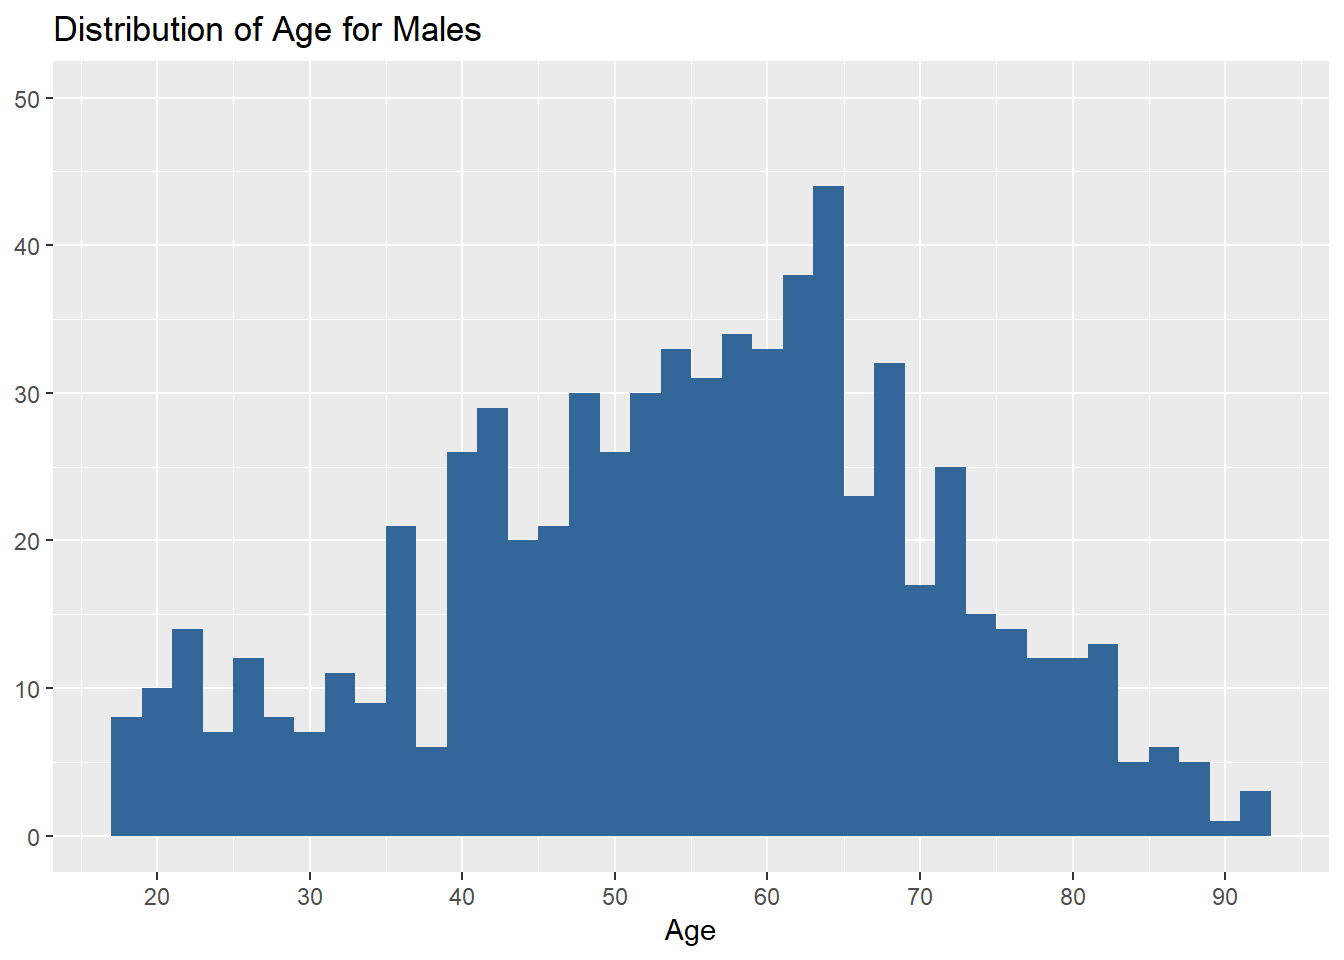
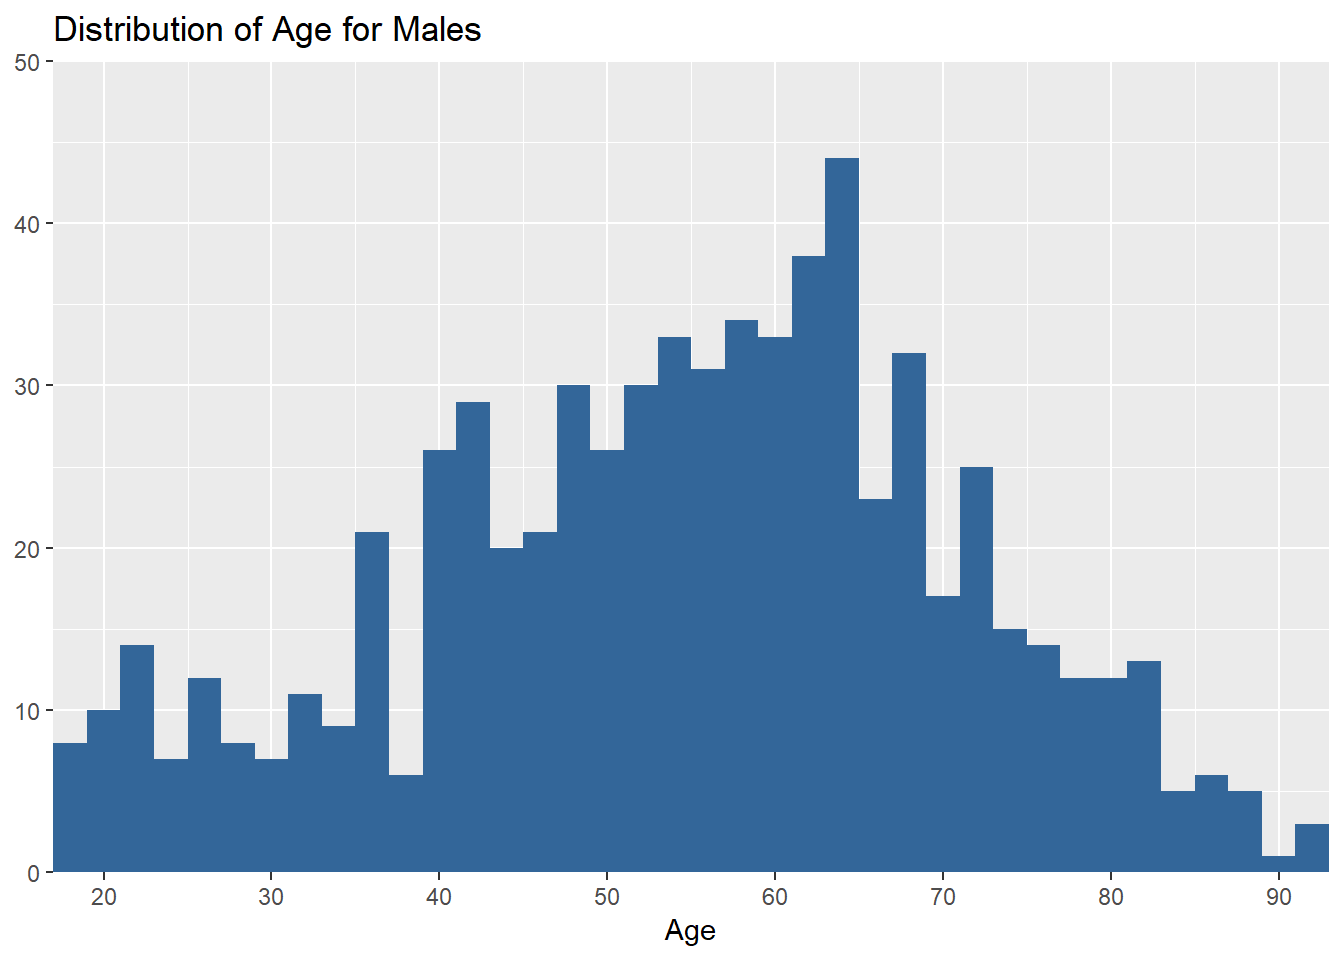
update plot_frq(1)

diff --git a/content/docs/SOC830_lab_05.html b/content/docs/SOC830_lab_05.html
@@ -202,7 +202,7 @@ Let’s caculate the mode of <em>sex</em>, <em>martial</em>, <em>richcol</em>, <
 ##                     richcol
 ## ----------------- ---------
 ##              Mean      3.22
-##          Std.Dev.      1.22
+##           Std.Dev      1.22
 ##               Min      1.00
 ##                Q1      2.00
 ##            Median      4.00
@@ -215,7 +215,7 @@ Let’s caculate the mode of <em>sex</em>, <em>martial</em>, <em>richcol</em>, <
 ##       SE.Skewness      0.06
 ##          Kurtosis     -1.09
 ##           N.Valid   1492.00
-##           % Valid     97.84</code></pre>
+##         Pct.Valid     97.84</code></pre>
 <p>Please note that incase of ordinal variables, you need to be careful in interpreting the results. For instance, the median value of <em>richcol</em> is 4, which means the median response is “Disagree”.</p>
 <p>The following code will show descriptive statistics of <em>age</em>(continuous variable):</p>
 <pre class="r"><code>descr(aus2009$age)</code></pre>
@@ -226,7 +226,7 @@ Let’s caculate the mode of <em>sex</em>, <em>martial</em>, <em>richcol</em>, <
 ##                         age
 ## ----------------- ---------
 ##              Mean     52.53
-##          Std.Dev.     16.78
+##           Std.Dev     16.78
 ##               Min     17.00
 ##                Q1     41.00
 ##            Median     54.00
@@ -239,37 +239,37 @@ Let’s caculate the mode of <em>sex</em>, <em>martial</em>, <em>richcol</em>, <
 ##       SE.Skewness      0.06
 ##          Kurtosis     -0.68
 ##           N.Valid   1484.00
-##           % Valid     97.31</code></pre>
+##         Pct.Valid     97.31</code></pre>
 </div>
 <div id="how-to-visualise-the-distribution" class="section level1">
 <h1>How to visualise the distribution</h1>
 <p>There are many packages to visualise your data in R. In our course I will use <em>sjPlot</em> package because it supports the labels assigned by <em>sjlabelled</em> package and is easy to use. If you want to learn more advanced graphics of R, I recommend using <em>ggplot2</em> package. One good reliable online resource can be found <a href="http://www.sthda.com/english/wiki/be-awesome-in-ggplot2-a-practical-guide-to-be-highly-effective-r-software-and-data-visualization">here</a>.</p>
 <div id="how-to-make-bar-graphs" class="section level2">
 <h2>How to make bar graphs</h2>
-<p>Bar graphs provide appropriate ways to present nominal or ordinal variables graphically. ‘<code>sjp.frq(data name$variable name, type = &quot;bar&quot;)</code>’ makes a bar graph of the specified variable. For example, the following code will make a bar graph of <em>sex</em> in <em>aus2009</em>:</p>
-<pre class="r"><code>sjp.frq(aus2009$sex, type = &quot;bar&quot;)</code></pre>
+<p>Bar graphs provide appropriate ways to present nominal or ordinal variables graphically. ‘<code>plot_frq(data name$variable name, type = &quot;bar&quot;)</code>’ makes a bar graph of the specified variable. For example, the following code will make a bar graph of <em>sex</em> in <em>aus2009</em>:</p>
+<pre class="r"><code>plot_frq(aus2009$sex, type = &quot;bar&quot;)</code></pre>
 <p><img src="/docs/SOC830_lab_05_files/figure-html/unnamed-chunk-14-1.png" width="672" /></p>
 <p>If you want to add the title of a figure, add ‘<code>title = &quot;Any title&quot;</code>’ to the code. The following code will add “Gender distribution” as the title of the figure:</p>
-<pre class="r"><code>sjp.frq(aus2009$sex, type = &quot;bar&quot;, title = &quot;Gender Distribution&quot;) </code></pre>
+<pre class="r"><code>plot_frq(aus2009$sex, type = &quot;bar&quot;, title = &quot;Gender Distribution&quot;) </code></pre>
 <p><img src="/docs/SOC830_lab_05_files/figure-html/unnamed-chunk-15-1.png" width="672" /></p>
 <p>The title of X-axis(R: Sex) is somewhat bizarre. The title of X-axis can be changed by adding ‘<code>axis.title = &quot;Any title&quot;</code>’. I change it into “Gender”. Thus, the code is:</p>
-<pre class="r"><code>sjp.frq(aus2009$sex, type = &quot;bar&quot;, title = &quot;Gender Distribution&quot;, 
+<pre class="r"><code>plot_frq(aus2009$sex, type = &quot;bar&quot;, title = &quot;Gender Distribution&quot;, 
         axis.title = &quot;Gender&quot;)  </code></pre>
 <p><img src="/docs/SOC830_lab_05_files/figure-html/unnamed-chunk-16-1.png" width="672" /></p>
 <p>If you want to remove percentages of each category at the top of bars, add ‘<code>show.prc = FALSE</code>’ to the code.</p>
-<pre class="r"><code>sjp.frq(aus2009$sex, type = &quot;bar&quot;, title = &quot;Gender Distribution&quot;, 
+<pre class="r"><code>plot_frq(aus2009$sex, type = &quot;bar&quot;, title = &quot;Gender Distribution&quot;, 
         show.prc = FALSE)</code></pre>
 <p><img src="/docs/SOC830_lab_05_files/figure-html/unnamed-chunk-17-1.png" width="672" /></p>
 <p>If you want to remove frequencies of each category at the top of bars, add ‘<code>show.n = FALSE</code>’ to the code.</p>
-<pre class="r"><code>sjp.frq(aus2009$sex, type = &quot;bar&quot;, title = &quot;Gender Distribution&quot;, 
+<pre class="r"><code>plot_frq(aus2009$sex, type = &quot;bar&quot;, title = &quot;Gender Distribution&quot;, 
         show.n = FALSE)</code></pre>
 <p><img src="/docs/SOC830_lab_05_files/figure-html/unnamed-chunk-18-1.png" width="672" /></p>
 <p>Next, let’s make a bar graph of another variable, <em>marital</em>.</p>
-<pre class="r"><code>sjp.frq(aus2009$marital, type = &quot;bar&quot;, title = &quot;Marital Status&quot;, 
+<pre class="r"><code>plot_frq(aus2009$marital, type = &quot;bar&quot;, title = &quot;Marital Status&quot;, 
         axis.title = &quot;Marital Status&quot;, show.n = FALSE)</code></pre>
 <p><img src="/docs/SOC830_lab_05_files/figure-html/unnamed-chunk-19-1.png" width="672" /></p>
 <p>You may notice that one axis label is too long, which makes it difficult to read other labels. So, we will change this long label into a more brief one. To change the axis label, ‘<code>axis.labels</code>’ option will be used.</p>
-<pre class="r"><code>sjp.frq(aus2009$marital, type = &quot;bar&quot;, title = &quot;Marital Status&quot;, 
+<pre class="r"><code>plot_frq(aus2009$marital, type = &quot;bar&quot;, title = &quot;Marital Status&quot;, 
         axis.title = &quot;Marital Status&quot;, 
         axis.labels = c(&quot;Married&quot;, &quot;Widowed&quot;, &quot;Divorced&quot;, 
                         &quot;Separated&quot;, &quot;Never Married or Single&quot;), 
@@ -286,22 +286,17 @@ Let’s caculate the mode of <em>sex</em>, <em>martial</em>, <em>richcol</em>, <
                        &quot;Separated&quot;, &quot;Never Married or Single&quot;))</code></pre>
 <p><img src="/docs/SOC830_lab_05_files/figure-html/unnamed-chunk-21-1.png" width="1152" /></p>
 <p>Note that I changed the label of axis and legend using ‘<code>axis.labels</code>’ and ‘<code>legend.labels</code>’ option.</p>
-<p>‘<code>plot_likert(data name$variable name)</code>’ also can be used for making grouped bar graphs. However, this function is designed specifically for visualising Likert scales. Let me create a grouped bar graph of <em>richcol</em> which uses a Likert scale.</p>
-<pre class="r"><code>plot_likert(aus2009$richcol, cat.neutral = 3, 
-            axis.labels = &quot;Only the rich can afford the cost of attending university.&quot;)</code></pre>
-<p><img src="/docs/SOC830_lab_05_files/figure-html/unnamed-chunk-22-1.png" width="1152" /></p>
-<p>You may notice that the neutral category (Neither agree nor disagree) is separated from other categories because it is not our primary focus. Thus, you always need to tell which is a neutral category using ‘<code>cat.neutral</code>’ option.</p>
 </div>
 <div id="how-to-make-histograms" class="section level2">
 <h2>How to make histograms</h2>
 <p>Histograms are used with continuous variables which have many scores. Histograms look like bar graphs, except that the sides of the “bars” touch to form a continuous series.
-To make histograms, use ‘<code>sjp.frq(data name$variable name, type = &quot;hist&quot;)</code>’. The following code creates a histogram of <em>age</em>.</p>
-<pre class="r"><code>sjp.frq(aus2009$age, type = &quot;hist&quot;, title = &quot;Distribution of Age&quot;, axis.title = &quot;Age&quot;)</code></pre>
-<p><img src="/docs/SOC830_lab_05_files/figure-html/unnamed-chunk-23-1.png" width="672" /></p>
+To make histograms, use ‘<code>plot_frq(data name$variable name, type = &quot;hist&quot;)</code>’. The following code creates a histogram of <em>age</em>.</p>
+<pre class="r"><code>plot_frq(aus2009$age, type = &quot;hist&quot;, title = &quot;Distribution of Age&quot;, axis.title = &quot;Age&quot;)</code></pre>
+<p><img src="/docs/SOC830_lab_05_files/figure-html/unnamed-chunk-22-1.png" width="672" /></p>
 <p>In this graph, I would like to set the distance between axis labels equal to 10. So, I add ‘<code>grid.breaks = 10</code>’ to the code. Thus, the code is:</p>
-<pre class="r"><code>sjp.frq(aus2009$age, type = &quot;hist&quot;, title = &quot;Distribution of Age&quot;, axis.title = &quot;Age&quot;,
+<pre class="r"><code>plot_frq(aus2009$age, type = &quot;hist&quot;, title = &quot;Distribution of Age&quot;, axis.title = &quot;Age&quot;,
         grid.breaks = 10)</code></pre>
-<p><img src="/docs/SOC830_lab_05_files/figure-html/unnamed-chunk-24-1.png" width="672" /></p>
+<p><img src="/docs/SOC830_lab_05_files/figure-html/unnamed-chunk-23-1.png" width="672" /></p>
 <p>The R codes you have written so far look like:</p>
 <pre class="r"><code>################################################################################
 # Week6: Univariate Analysis
@@ -361,18 +356,18 @@ descr(aus2009$age)
 
 # Visualise the distribution
 ## Bar graph
-sjp.frq(aus2009$sex, type = &quot;bar&quot;)
-sjp.frq(aus2009$sex, type = &quot;bar&quot;, title = &quot;Gender Distribution&quot;) # change the title of figure
-sjp.frq(aus2009$sex, type = &quot;bar&quot;, title = &quot;Gender Distribution&quot;, 
+plot_frq(aus2009$sex, type = &quot;bar&quot;)
+plot_frq(aus2009$sex, type = &quot;bar&quot;, title = &quot;Gender Distribution&quot;) # change the title of figure
+plot_frq(aus2009$sex, type = &quot;bar&quot;, title = &quot;Gender Distribution&quot;, 
         axis.title = &quot;Gender&quot;) # change the title of axis
-sjp.frq(aus2009$sex, type = &quot;bar&quot;, title = &quot;Gender Distribution&quot;, 
+plot_frq(aus2009$sex, type = &quot;bar&quot;, title = &quot;Gender Distribution&quot;, 
         show.prc = FALSE) # do not show percentages
-sjp.frq(aus2009$sex, type = &quot;bar&quot;, title = &quot;Gender Distribution&quot;, 
+plot_frq(aus2009$sex, type = &quot;bar&quot;, title = &quot;Gender Distribution&quot;, 
         show.n = FALSE) # do not show frequencies
 
-sjp.frq(aus2009$marital, type = &quot;bar&quot;, title = &quot;Marital Status&quot;, 
+plot_frq(aus2009$marital, type = &quot;bar&quot;, title = &quot;Marital Status&quot;, 
         axis.title = &quot;Marital Status&quot;, show.n = FALSE)
-sjp.frq(aus2009$marital, type = &quot;bar&quot;, title = &quot;Marital Status&quot;, 
+plot_frq(aus2009$marital, type = &quot;bar&quot;, title = &quot;Marital Status&quot;, 
         axis.title = &quot;Marital Status&quot;, 
         axis.labels = c(&quot;Married&quot;, &quot;Widowed&quot;, &quot;Divorced&quot;, 
             &quot;Separated&quot;, &quot;Never Married or Single&quot;), 
@@ -383,14 +378,13 @@ sjp.stackfrq(aus2009$marital, title = &quot;Marital Status&quot;,
     axis.labels = &quot;Marital Status&quot;,
     legend.labels =  c(&quot;Married&quot;, &quot;Widowed&quot;, &quot;Divorced&quot;, 
         &quot;Separated&quot;, &quot;Never Married or Single&quot;))
-plot_likert(aus2009$richcol, cat.neutral = 3, axis.labels = &quot;Only the rich can afford the cost of attending university.&quot;)
 
 ## Histogram
-sjp.frq(aus2009$age, type = &quot;hist&quot;, title = &quot;Distribution of Age&quot;, axis.title = &quot;Age&quot;)
-sjp.frq(aus2009$age, type = &quot;hist&quot;, title = &quot;Distribution of Age&quot;, axis.title = &quot;Age&quot;,
+plot_frq(aus2009$age, type = &quot;hist&quot;, title = &quot;Distribution of Age&quot;, axis.title = &quot;Age&quot;)
+plot_frq(aus2009$age, type = &quot;hist&quot;, title = &quot;Distribution of Age&quot;, axis.title = &quot;Age&quot;,
         grid.breaks = 10) # grid.breks:sets the distance between breaks for the axis</code></pre>
 <center>
-Last updated on <em>08 April, 2019</em> by <em>Dr Hang Young Lee</em><a href="mailto:hangyoung.lee@mq.edu.au">(hangyoung.lee@mq.edu.au)</a>
+Last updated on <em>05 May, 2019</em> by <em>Dr Hang Young Lee</em><a href="mailto:hangyoung.lee@mq.edu.au">(hangyoung.lee@mq.edu.au)</a>
 </center>
 </div>
 </div>
